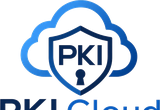
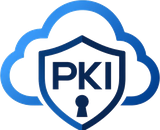
No body overflow rules, tight PKI credit with a clean mark, wordmark centred on the mark
Overflow clipping moves off body and html entirely (Safari treated it
as a second scroller) onto main, header and footer. The PKI credit is
one tight unit with a cloud-and-shield mark cropped above the lettering.
discovery Health is centred on the mark itself. Versions dh-49.

🤖 Generated with Claude Code

diff --git a/assets/css/dh.css b/assets/css/dh.css
@@ -15,7 +15,7 @@
 *, *::before, *::after { box-sizing: border-box; }
 html { -webkit-text-size-adjust: 100%; }
 html.smooth-scroll { scroll-behavior: smooth; }
-body { margin: 0; font-family: var(--font); font-size: 1.0625rem; line-height: 1.6; color: var(--ink); background: var(--paper); overflow-x: hidden; }
+body { margin: 0; font-family: var(--font); font-size: 1.0625rem; line-height: 1.6; color: var(--ink); background: var(--paper); }
 img, video { max-width: 100%; display: block; }
 a { color: var(--teal); text-decoration: none; }
 a:hover { color: var(--teal-dark); }
@@ -1129,9 +1129,7 @@ body { animation: dhPageIn 0.45s ease-out both; }
 
 /* ===================================================================== Round 45 */
 /* Phones: clip sideways overflow without turning the page into a second scroller (the earlier hidden rule could make Safari scroll past the footer) */
-body { overflow-x: clip; }
-main, .site-footer { overflow-x: clip; }
-@supports not (overflow-x: clip) { body { overflow-x: hidden; } }
+main, .site-footer, .site-header { overflow-x: clip; }
 /* Footer credit: one unbroken unit with a clearer mark */
 .pki-link { white-space: nowrap; gap: 0.5rem; }
 .pki-link img { width: 36px; height: 36px; padding: 3px; border-radius: 8px; }
@@ -1149,3 +1147,13 @@ main, .site-footer { overflow-x: clip; }
 .svc-grid .svc-card.reveal.in:nth-child(3), .svc-grid .svc-card.reveal.in:nth-child(6) { animation-delay: 0.2s; }
 @media (max-width: 600px) { .svc-grid .svc-card.reveal.in:nth-child(n) { animation-delay: 0s; } }
 @media (prefers-reduced-motion: reduce) { .svc-grid .svc-card.reveal.in:nth-child(n) { animation: none; } }
+
+/* ===================================================================== Round 47 */
+/* Phones: nothing on body/html controls overflow (Safari treated that as a second scroller); main, header and footer clip their own edges */
+body { overflow-x: visible; }
+/* Footer credit: mark and name as one tight unit */
+.pki-link { gap: 0.4rem; }
+.pki-link img { width: 34px; height: 34px; padding: 3px; }
+/* Logo: wordmark centred on the mark itself (not the mark plus its line), slightly closer */
+.brand-v4 .brand-word2 { grid-area: 1 / 2 / 2 / 3; align-self: center; }
+.brand { column-gap: 0.35rem; }

diff --git a/index.html b/index.html
@@ -19,8 +19,8 @@
 <link rel="icon" type="image/png" sizes="192x192" href="assets/img/favicon-192.png">
 <link rel="apple-touch-icon" href="assets/img/apple-touch-icon.png">
 <link rel="preconnect" href="https://fonts.googleapis.com"><link rel="preconnect" href="https://fonts.gstatic.com" crossorigin><link href="https://fonts.googleapis.com/css2?family=Figtree:wght@400;500;600;700;800&family=Caveat:wght@600&family=Fraunces:ital,opsz,wght@0,9..144,600;1,9..144,400;1,9..144,600&family=Rethink+Sans:wght@500;600;700&family=Nunito:wght@600;700;800;900&family=Nunito+Sans:opsz,wght@6..12,400;6..12,800&family=Montserrat:wght@400;500;600;700&family=Crimson+Pro:wght@400;500;600&family=Zen+Antique+Soft&display=swap" rel="stylesheet">
-<link rel="stylesheet" href="assets/css/dh.css?ver=dh-48">
-<link rel="stylesheet" href="assets/chatbot/dh-chatbot.css?ver=dh-48">
+<link rel="stylesheet" href="assets/css/dh.css?ver=dh-49">
+<link rel="stylesheet" href="assets/chatbot/dh-chatbot.css?ver=dh-49">
 <script type="application/ld+json">{
 "@context": "https://schema.org",
 "@type": "MedicalBusiness",
@@ -386,7 +386,7 @@
     <button class="dh-qr__close" type="button" aria-label="Hide">&times;</button>
   </div>
 </div>
-<script src="assets/js/dh.js?ver=dh-48"></script>
-<script src="assets/chatbot/dh-chatbot.js?ver=dh-48" defer></script>
+<script src="assets/js/dh.js?ver=dh-49"></script>
+<script src="assets/chatbot/dh-chatbot.js?ver=dh-49" defer></script>
 </body>
 </html>

diff --git a/resources/4-reasons-to-choose-home-health-care/index.html b/resources/4-reasons-to-choose-home-health-care/index.html
@@ -19,8 +19,8 @@
 <link rel="icon" type="image/png" sizes="192x192" href="../../assets/img/favicon-192.png">
 <link rel="apple-touch-icon" href="../../assets/img/apple-touch-icon.png">
 <link rel="preconnect" href="https://fonts.googleapis.com"><link rel="preconnect" href="https://fonts.gstatic.com" crossorigin><link href="https://fonts.googleapis.com/css2?family=Figtree:wght@400;500;600;700;800&family=Caveat:wght@600&family=Fraunces:ital,opsz,wght@0,9..144,600;1,9..144,400;1,9..144,600&family=Rethink+Sans:wght@500;600;700&family=Nunito:wght@600;700;800;900&family=Nunito+Sans:opsz,wght@6..12,400;6..12,800&family=Montserrat:wght@400;500;600;700&family=Crimson+Pro:wght@400;500;600&family=Zen+Antique+Soft&display=swap" rel="stylesheet">
-<link rel="stylesheet" href="../../assets/css/dh.css?ver=dh-48">
-<link rel="stylesheet" href="../../assets/chatbot/dh-chatbot.css?ver=dh-48">
+<link rel="stylesheet" href="../../assets/css/dh.css?ver=dh-49">
+<link rel="stylesheet" href="../../assets/chatbot/dh-chatbot.css?ver=dh-49">
 
 </head>
 <body data-page="resources">
@@ -153,7 +153,7 @@
     </div>
   </div>
 </footer>
-<script src="../../assets/js/dh.js?ver=dh-48"></script>
-<script src="../../assets/chatbot/dh-chatbot.js?ver=dh-48" defer></script>
+<script src="../../assets/js/dh.js?ver=dh-49"></script>
+<script src="../../assets/chatbot/dh-chatbot.js?ver=dh-49" defer></script>
 </body>
 </html>

diff --git a/resources/4-signs-of-pain-in-older-adults/index.html b/resources/4-signs-of-pain-in-older-adults/index.html
@@ -19,8 +19,8 @@
 <link rel="icon" type="image/png" sizes="192x192" href="../../assets/img/favicon-192.png">
 <link rel="apple-touch-icon" href="../../assets/img/apple-touch-icon.png">
 <link rel="preconnect" href="https://fonts.googleapis.com"><link rel="preconnect" href="https://fonts.gstatic.com" crossorigin><link href="https://fonts.googleapis.com/css2?family=Figtree:wght@400;500;600;700;800&family=Caveat:wght@600&family=Fraunces:ital,opsz,wght@0,9..144,600;1,9..144,400;1,9..144,600&family=Rethink+Sans:wght@500;600;700&family=Nunito:wght@600;700;800;900&family=Nunito+Sans:opsz,wght@6..12,400;6..12,800&family=Montserrat:wght@400;500;600;700&family=Crimson+Pro:wght@400;500;600&family=Zen+Antique+Soft&display=swap" rel="stylesheet">
-<link rel="stylesheet" href="../../assets/css/dh.css?ver=dh-48">
-<link rel="stylesheet" href="../../assets/chatbot/dh-chatbot.css?ver=dh-48">
+<link rel="stylesheet" href="../../assets/css/dh.css?ver=dh-49">
+<link rel="stylesheet" href="../../assets/chatbot/dh-chatbot.css?ver=dh-49">
 
 </head>
 <body data-page="resources">
@@ -152,7 +152,7 @@
     </div>
   </div>
 </footer>
-<script src="../../assets/js/dh.js?ver=dh-48"></script>
-<script src="../../assets/chatbot/dh-chatbot.js?ver=dh-48" defer></script>
+<script src="../../assets/js/dh.js?ver=dh-49"></script>
+<script src="../../assets/chatbot/dh-chatbot.js?ver=dh-49" defer></script>
 </body>
 </html>

diff --git a/resources/chronic-pain-at-home-4-everyday-triggers/index.html b/resources/chronic-pain-at-home-4-everyday-triggers/index.html
@@ -19,8 +19,8 @@
 <link rel="icon" type="image/png" sizes="192x192" href="../../assets/img/favicon-192.png">
 <link rel="apple-touch-icon" href="../../assets/img/apple-touch-icon.png">
 <link rel="preconnect" href="https://fonts.googleapis.com"><link rel="preconnect" href="https://fonts.gstatic.com" crossorigin><link href="https://fonts.googleapis.com/css2?family=Figtree:wght@400;500;600;700;800&family=Caveat:wght@600&family=Fraunces:ital,opsz,wght@0,9..144,600;1,9..144,400;1,9..144,600&family=Rethink+Sans:wght@500;600;700&family=Nunito:wght@600;700;800;900&family=Nunito+Sans:opsz,wght@6..12,400;6..12,800&family=Montserrat:wght@400;500;600;700&family=Crimson+Pro:wght@400;500;600&family=Zen+Antique+Soft&display=swap" rel="stylesheet">
-<link rel="stylesheet" href="../../assets/css/dh.css?ver=dh-48">
-<link rel="stylesheet" href="../../assets/chatbot/dh-chatbot.css?ver=dh-48">
+<link rel="stylesheet" href="../../assets/css/dh.css?ver=dh-49">
+<link rel="stylesheet" href="../../assets/chatbot/dh-chatbot.css?ver=dh-49">
 
 </head>
 <body data-page="resources">
@@ -150,7 +150,7 @@
     </div>
   </div>
 </footer>
-<script src="../../assets/js/dh.js?ver=dh-48"></script>
-<script src="../../assets/chatbot/dh-chatbot.js?ver=dh-48" defer></script>
+<script src="../../assets/js/dh.js?ver=dh-49"></script>
+<script src="../../assets/chatbot/dh-chatbot.js?ver=dh-49" defer></script>
 </body>
 </html>

diff --git a/resources/home-safety-technology-safety-and-privacy/index.html b/resources/home-safety-technology-safety-and-privacy/index.html
@@ -19,8 +19,8 @@
 <link rel="icon" type="image/png" sizes="192x192" href="../../assets/img/favicon-192.png">
 <link rel="apple-touch-icon" href="../../assets/img/apple-touch-icon.png">
 <link rel="preconnect" href="https://fonts.googleapis.com"><link rel="preconnect" href="https://fonts.gstatic.com" crossorigin><link href="https://fonts.googleapis.com/css2?family=Figtree:wght@400;500;600;700;800&family=Caveat:wght@600&family=Fraunces:ital,opsz,wght@0,9..144,600;1,9..144,400;1,9..144,600&family=Rethink+Sans:wght@500;600;700&family=Nunito:wght@600;700;800;900&family=Nunito+Sans:opsz,wght@6..12,400;6..12,800&family=Montserrat:wght@400;500;600;700&family=Crimson+Pro:wght@400;500;600&family=Zen+Antique+Soft&display=swap" rel="stylesheet">
-<link rel="stylesheet" href="../../assets/css/dh.css?ver=dh-48">
-<link rel="stylesheet" href="../../assets/chatbot/dh-chatbot.css?ver=dh-48">
+<link rel="stylesheet" href="../../assets/css/dh.css?ver=dh-49">
+<link rel="stylesheet" href="../../assets/chatbot/dh-chatbot.css?ver=dh-49">
 
 </head>
 <body data-page="resources">
@@ -148,7 +148,7 @@
     </div>
   </div>
 </footer>
-<script src="../../assets/js/dh.js?ver=dh-48"></script>
-<script src="../../assets/chatbot/dh-chatbot.js?ver=dh-48" defer></script>
+<script src="../../assets/js/dh.js?ver=dh-49"></script>
+<script src="../../assets/chatbot/dh-chatbot.js?ver=dh-49" defer></script>
 </body>
 </html>

diff --git a/resources/index.html b/resources/index.html
@@ -19,8 +19,8 @@
 <link rel="icon" type="image/png" sizes="192x192" href="../assets/img/favicon-192.png">
 <link rel="apple-touch-icon" href="../assets/img/apple-touch-icon.png">
 <link rel="preconnect" href="https://fonts.googleapis.com"><link rel="preconnect" href="https://fonts.gstatic.com" crossorigin><link href="https://fonts.googleapis.com/css2?family=Figtree:wght@400;500;600;700;800&family=Caveat:wght@600&family=Fraunces:ital,opsz,wght@0,9..144,600;1,9..144,400;1,9..144,600&family=Rethink+Sans:wght@500;600;700&family=Nunito:wght@600;700;800;900&family=Nunito+Sans:opsz,wght@6..12,400;6..12,800&family=Montserrat:wght@400;500;600;700&family=Crimson+Pro:wght@400;500;600&family=Zen+Antique+Soft&display=swap" rel="stylesheet">
-<link rel="stylesheet" href="../assets/css/dh.css?ver=dh-48">
-<link rel="stylesheet" href="../assets/chatbot/dh-chatbot.css?ver=dh-48">
+<link rel="stylesheet" href="../assets/css/dh.css?ver=dh-49">
+<link rel="stylesheet" href="../assets/chatbot/dh-chatbot.css?ver=dh-49">
 
 </head>
 <body data-page="resources">
@@ -117,7 +117,7 @@
     </div>
   </div>
 </footer>
-<script src="../assets/js/dh.js?ver=dh-48"></script>
-<script src="../assets/chatbot/dh-chatbot.js?ver=dh-48" defer></script>
+<script src="../assets/js/dh.js?ver=dh-49"></script>
+<script src="../assets/chatbot/dh-chatbot.js?ver=dh-49" defer></script>
 </body>
 </html>

diff --git a/services/index.html b/services/index.html
@@ -19,8 +19,8 @@
 <link rel="icon" type="image/png" sizes="192x192" href="../assets/img/favicon-192.png">
 <link rel="apple-touch-icon" href="../assets/img/apple-touch-icon.png">
 <link rel="preconnect" href="https://fonts.googleapis.com"><link rel="preconnect" href="https://fonts.gstatic.com" crossorigin><link href="https://fonts.googleapis.com/css2?family=Figtree:wght@400;500;600;700;800&family=Caveat:wght@600&family=Fraunces:ital,opsz,wght@0,9..144,600;1,9..144,400;1,9..144,600&family=Rethink+Sans:wght@500;600;700&family=Nunito:wght@600;700;800;900&family=Nunito+Sans:opsz,wght@6..12,400;6..12,800&family=Montserrat:wght@400;500;600;700&family=Crimson+Pro:wght@400;500;600&family=Zen+Antique+Soft&display=swap" rel="stylesheet">
-<link rel="stylesheet" href="../assets/css/dh.css?ver=dh-48">
-<link rel="stylesheet" href="../assets/chatbot/dh-chatbot.css?ver=dh-48">
+<link rel="stylesheet" href="../assets/css/dh.css?ver=dh-49">
+<link rel="stylesheet" href="../assets/chatbot/dh-chatbot.css?ver=dh-49">
 
 </head>
 <body data-page="services">
@@ -158,7 +158,7 @@
     </div>
   </div>
 </footer>
-<script src="../assets/js/dh.js?ver=dh-48"></script>
-<script src="../assets/chatbot/dh-chatbot.js?ver=dh-48" defer></script>
+<script src="../assets/js/dh.js?ver=dh-49"></script>
+<script src="../assets/chatbot/dh-chatbot.js?ver=dh-49" defer></script>
 </body>
 </html>

diff --git a/contact/index.html b/contact/index.html
@@ -19,8 +19,8 @@
 <link rel="icon" type="image/png" sizes="192x192" href="../assets/img/favicon-192.png">
 <link rel="apple-touch-icon" href="../assets/img/apple-touch-icon.png">
 <link rel="preconnect" href="https://fonts.googleapis.com"><link rel="preconnect" href="https://fonts.gstatic.com" crossorigin><link href="https://fonts.googleapis.com/css2?family=Figtree:wght@400;500;600;700;800&family=Caveat:wght@600&family=Fraunces:ital,opsz,wght@0,9..144,600;1,9..144,400;1,9..144,600&family=Rethink+Sans:wght@500;600;700&family=Nunito:wght@600;700;800;900&family=Nunito+Sans:opsz,wght@6..12,400;6..12,800&family=Montserrat:wght@400;500;600;700&family=Crimson+Pro:wght@400;500;600&family=Zen+Antique+Soft&display=swap" rel="stylesheet">
-<link rel="stylesheet" href="../assets/css/dh.css?ver=dh-48">
-<link rel="stylesheet" href="../assets/chatbot/dh-chatbot.css?ver=dh-48">
+<link rel="stylesheet" href="../assets/css/dh.css?ver=dh-49">
+<link rel="stylesheet" href="../assets/chatbot/dh-chatbot.css?ver=dh-49">
 
 </head>
 <body data-page="contact">
@@ -109,7 +109,7 @@
     </div>
   </div>
 </footer>
-<script src="../assets/js/dh.js?ver=dh-48"></script>
-<script src="../assets/chatbot/dh-chatbot.js?ver=dh-48" defer></script>
+<script src="../assets/js/dh.js?ver=dh-49"></script>
+<script src="../assets/chatbot/dh-chatbot.js?ver=dh-49" defer></script>
 </body>
 </html>

diff --git a/about/index.html b/about/index.html
@@ -19,8 +19,8 @@
 <link rel="icon" type="image/png" sizes="192x192" href="../assets/img/favicon-192.png">
 <link rel="apple-touch-icon" href="../assets/img/apple-touch-icon.png">
 <link rel="preconnect" href="https://fonts.googleapis.com"><link rel="preconnect" href="https://fonts.gstatic.com" crossorigin><link href="https://fonts.googleapis.com/css2?family=Figtree:wght@400;500;600;700;800&family=Caveat:wght@600&family=Fraunces:ital,opsz,wght@0,9..144,600;1,9..144,400;1,9..144,600&family=Rethink+Sans:wght@500;600;700&family=Nunito:wght@600;700;800;900&family=Nunito+Sans:opsz,wght@6..12,400;6..12,800&family=Montserrat:wght@400;500;600;700&family=Crimson+Pro:wght@400;500;600&family=Zen+Antique+Soft&display=swap" rel="stylesheet">
-<link rel="stylesheet" href="../assets/css/dh.css?ver=dh-48">
-<link rel="stylesheet" href="../assets/chatbot/dh-chatbot.css?ver=dh-48">
+<link rel="stylesheet" href="../assets/css/dh.css?ver=dh-49">
+<link rel="stylesheet" href="../assets/chatbot/dh-chatbot.css?ver=dh-49">
 
 </head>
 <body data-page="about">
@@ -127,7 +127,7 @@
     </div>
   </div>
 </footer>
-<script src="../assets/js/dh.js?ver=dh-48"></script>
-<script src="../assets/chatbot/dh-chatbot.js?ver=dh-48" defer></script>
+<script src="../assets/js/dh.js?ver=dh-49"></script>
+<script src="../assets/chatbot/dh-chatbot.js?ver=dh-49" defer></script>
 </body>
 </html>

diff --git a/privacy-policy/index.html b/privacy-policy/index.html
@@ -19,8 +19,8 @@
 <link rel="icon" type="image/png" sizes="192x192" href="../assets/img/favicon-192.png">
 <link rel="apple-touch-icon" href="../assets/img/apple-touch-icon.png">
 <link rel="preconnect" href="https://fonts.googleapis.com"><link rel="preconnect" href="https://fonts.gstatic.com" crossorigin><link href="https://fonts.googleapis.com/css2?family=Figtree:wght@400;500;600;700;800&family=Caveat:wght@600&family=Fraunces:ital,opsz,wght@0,9..144,600;1,9..144,400;1,9..144,600&family=Rethink+Sans:wght@500;600;700&family=Nunito:wght@600;700;800;900&family=Nunito+Sans:opsz,wght@6..12,400;6..12,800&family=Montserrat:wght@400;500;600;700&family=Crimson+Pro:wght@400;500;600&family=Zen+Antique+Soft&display=swap" rel="stylesheet">
-<link rel="stylesheet" href="../assets/css/dh.css?ver=dh-48">
-<link rel="stylesheet" href="../assets/chatbot/dh-chatbot.css?ver=dh-48">
+<link rel="stylesheet" href="../assets/css/dh.css?ver=dh-49">
+<link rel="stylesheet" href="../assets/chatbot/dh-chatbot.css?ver=dh-49">
 
 </head>
 <body data-page="privacy">
@@ -96,7 +96,7 @@
     </div>
   </div>
 </footer>
-<script src="../assets/js/dh.js?ver=dh-48"></script>
-<script src="../assets/chatbot/dh-chatbot.js?ver=dh-48" defer></script>
+<script src="../assets/js/dh.js?ver=dh-49"></script>
+<script src="../assets/chatbot/dh-chatbot.js?ver=dh-49" defer></script>
 </body>
 </html>

diff --git a/faq/index.html b/faq/index.html
@@ -19,8 +19,8 @@
 <link rel="icon" type="image/png" sizes="192x192" href="../assets/img/favicon-192.png">
 <link rel="apple-touch-icon" href="../assets/img/apple-touch-icon.png">
 <link rel="preconnect" href="https://fonts.googleapis.com"><link rel="preconnect" href="https://fonts.gstatic.com" crossorigin><link href="https://fonts.googleapis.com/css2?family=Figtree:wght@400;500;600;700;800&family=Caveat:wght@600&family=Fraunces:ital,opsz,wght@0,9..144,600;1,9..144,400;1,9..144,600&family=Rethink+Sans:wght@500;600;700&family=Nunito:wght@600;700;800;900&family=Nunito+Sans:opsz,wght@6..12,400;6..12,800&family=Montserrat:wght@400;500;600;700&family=Crimson+Pro:wght@400;500;600&family=Zen+Antique+Soft&display=swap" rel="stylesheet">
-<link rel="stylesheet" href="../assets/css/dh.css?ver=dh-48">
-<link rel="stylesheet" href="../assets/chatbot/dh-chatbot.css?ver=dh-48">
+<link rel="stylesheet" href="../assets/css/dh.css?ver=dh-49">
+<link rel="stylesheet" href="../assets/chatbot/dh-chatbot.css?ver=dh-49">
 
 </head>
 <body data-page="faq">
@@ -103,7 +103,7 @@
     </div>
   </div>
 </footer>
-<script src="../assets/js/dh.js?ver=dh-48"></script>
-<script src="../assets/chatbot/dh-chatbot.js?ver=dh-48" defer></script>
+<script src="../assets/js/dh.js?ver=dh-49"></script>
+<script src="../assets/chatbot/dh-chatbot.js?ver=dh-49" defer></script>
 </body>
 </html>
